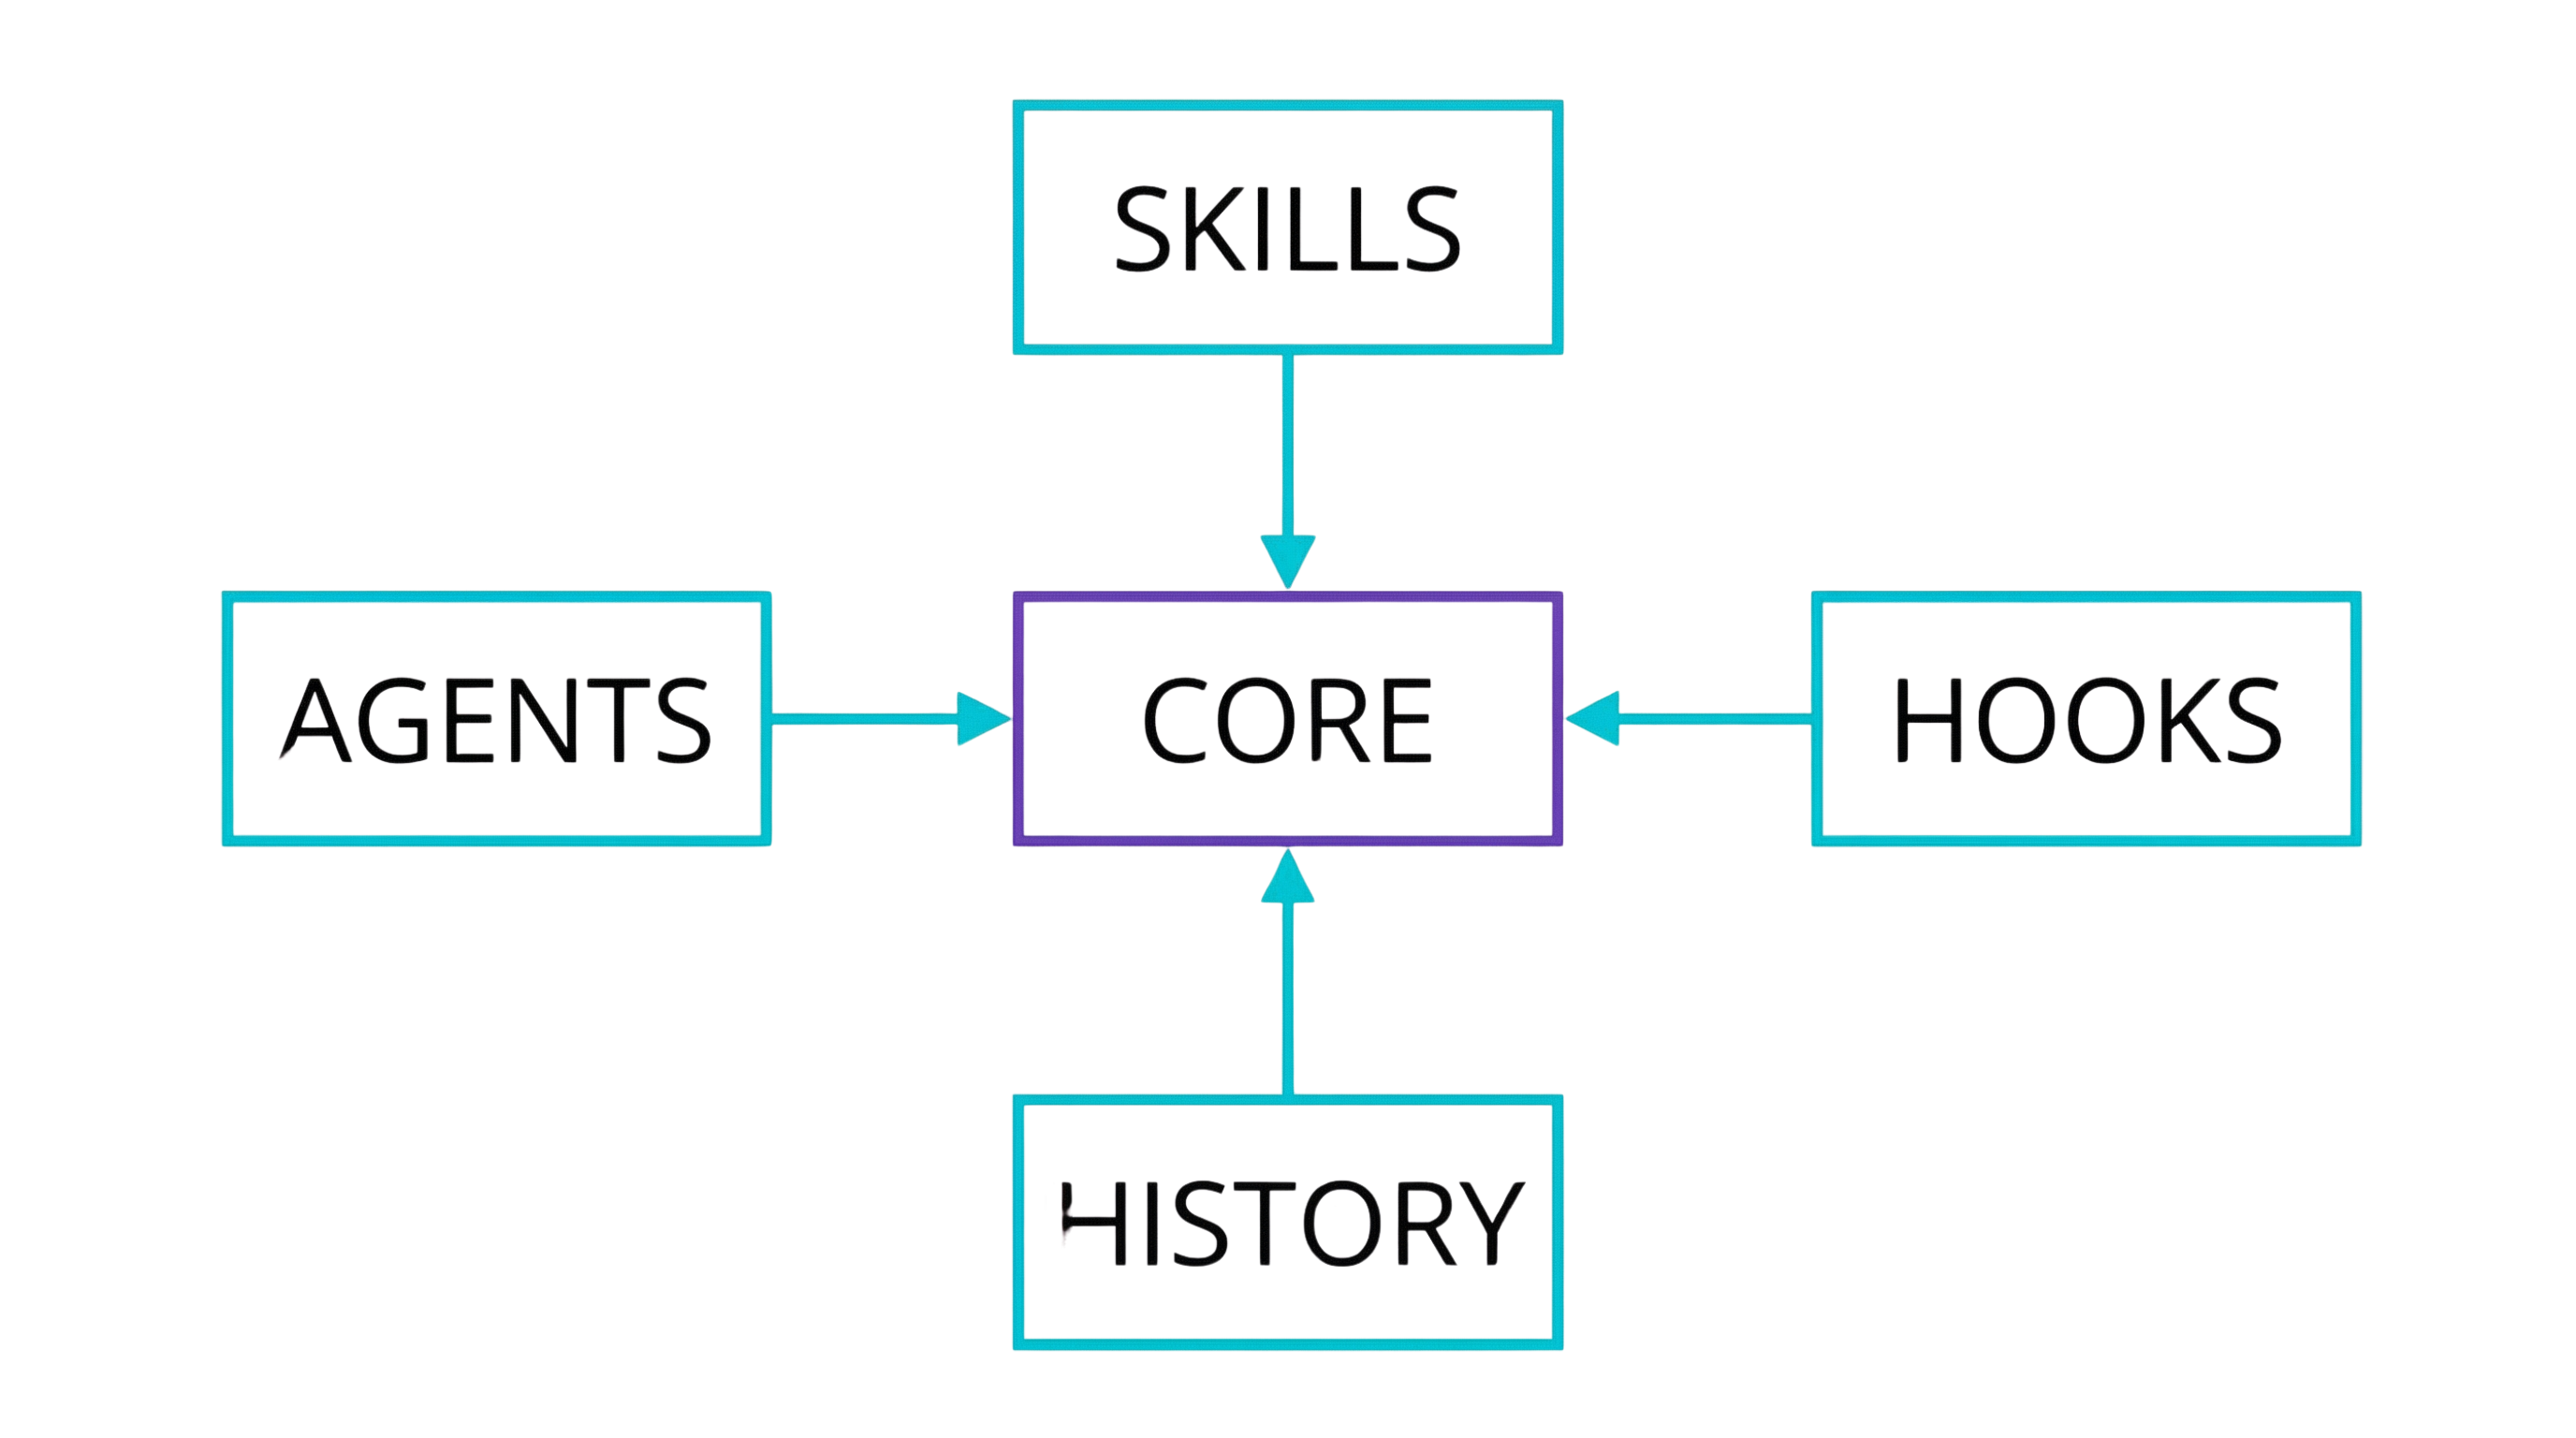
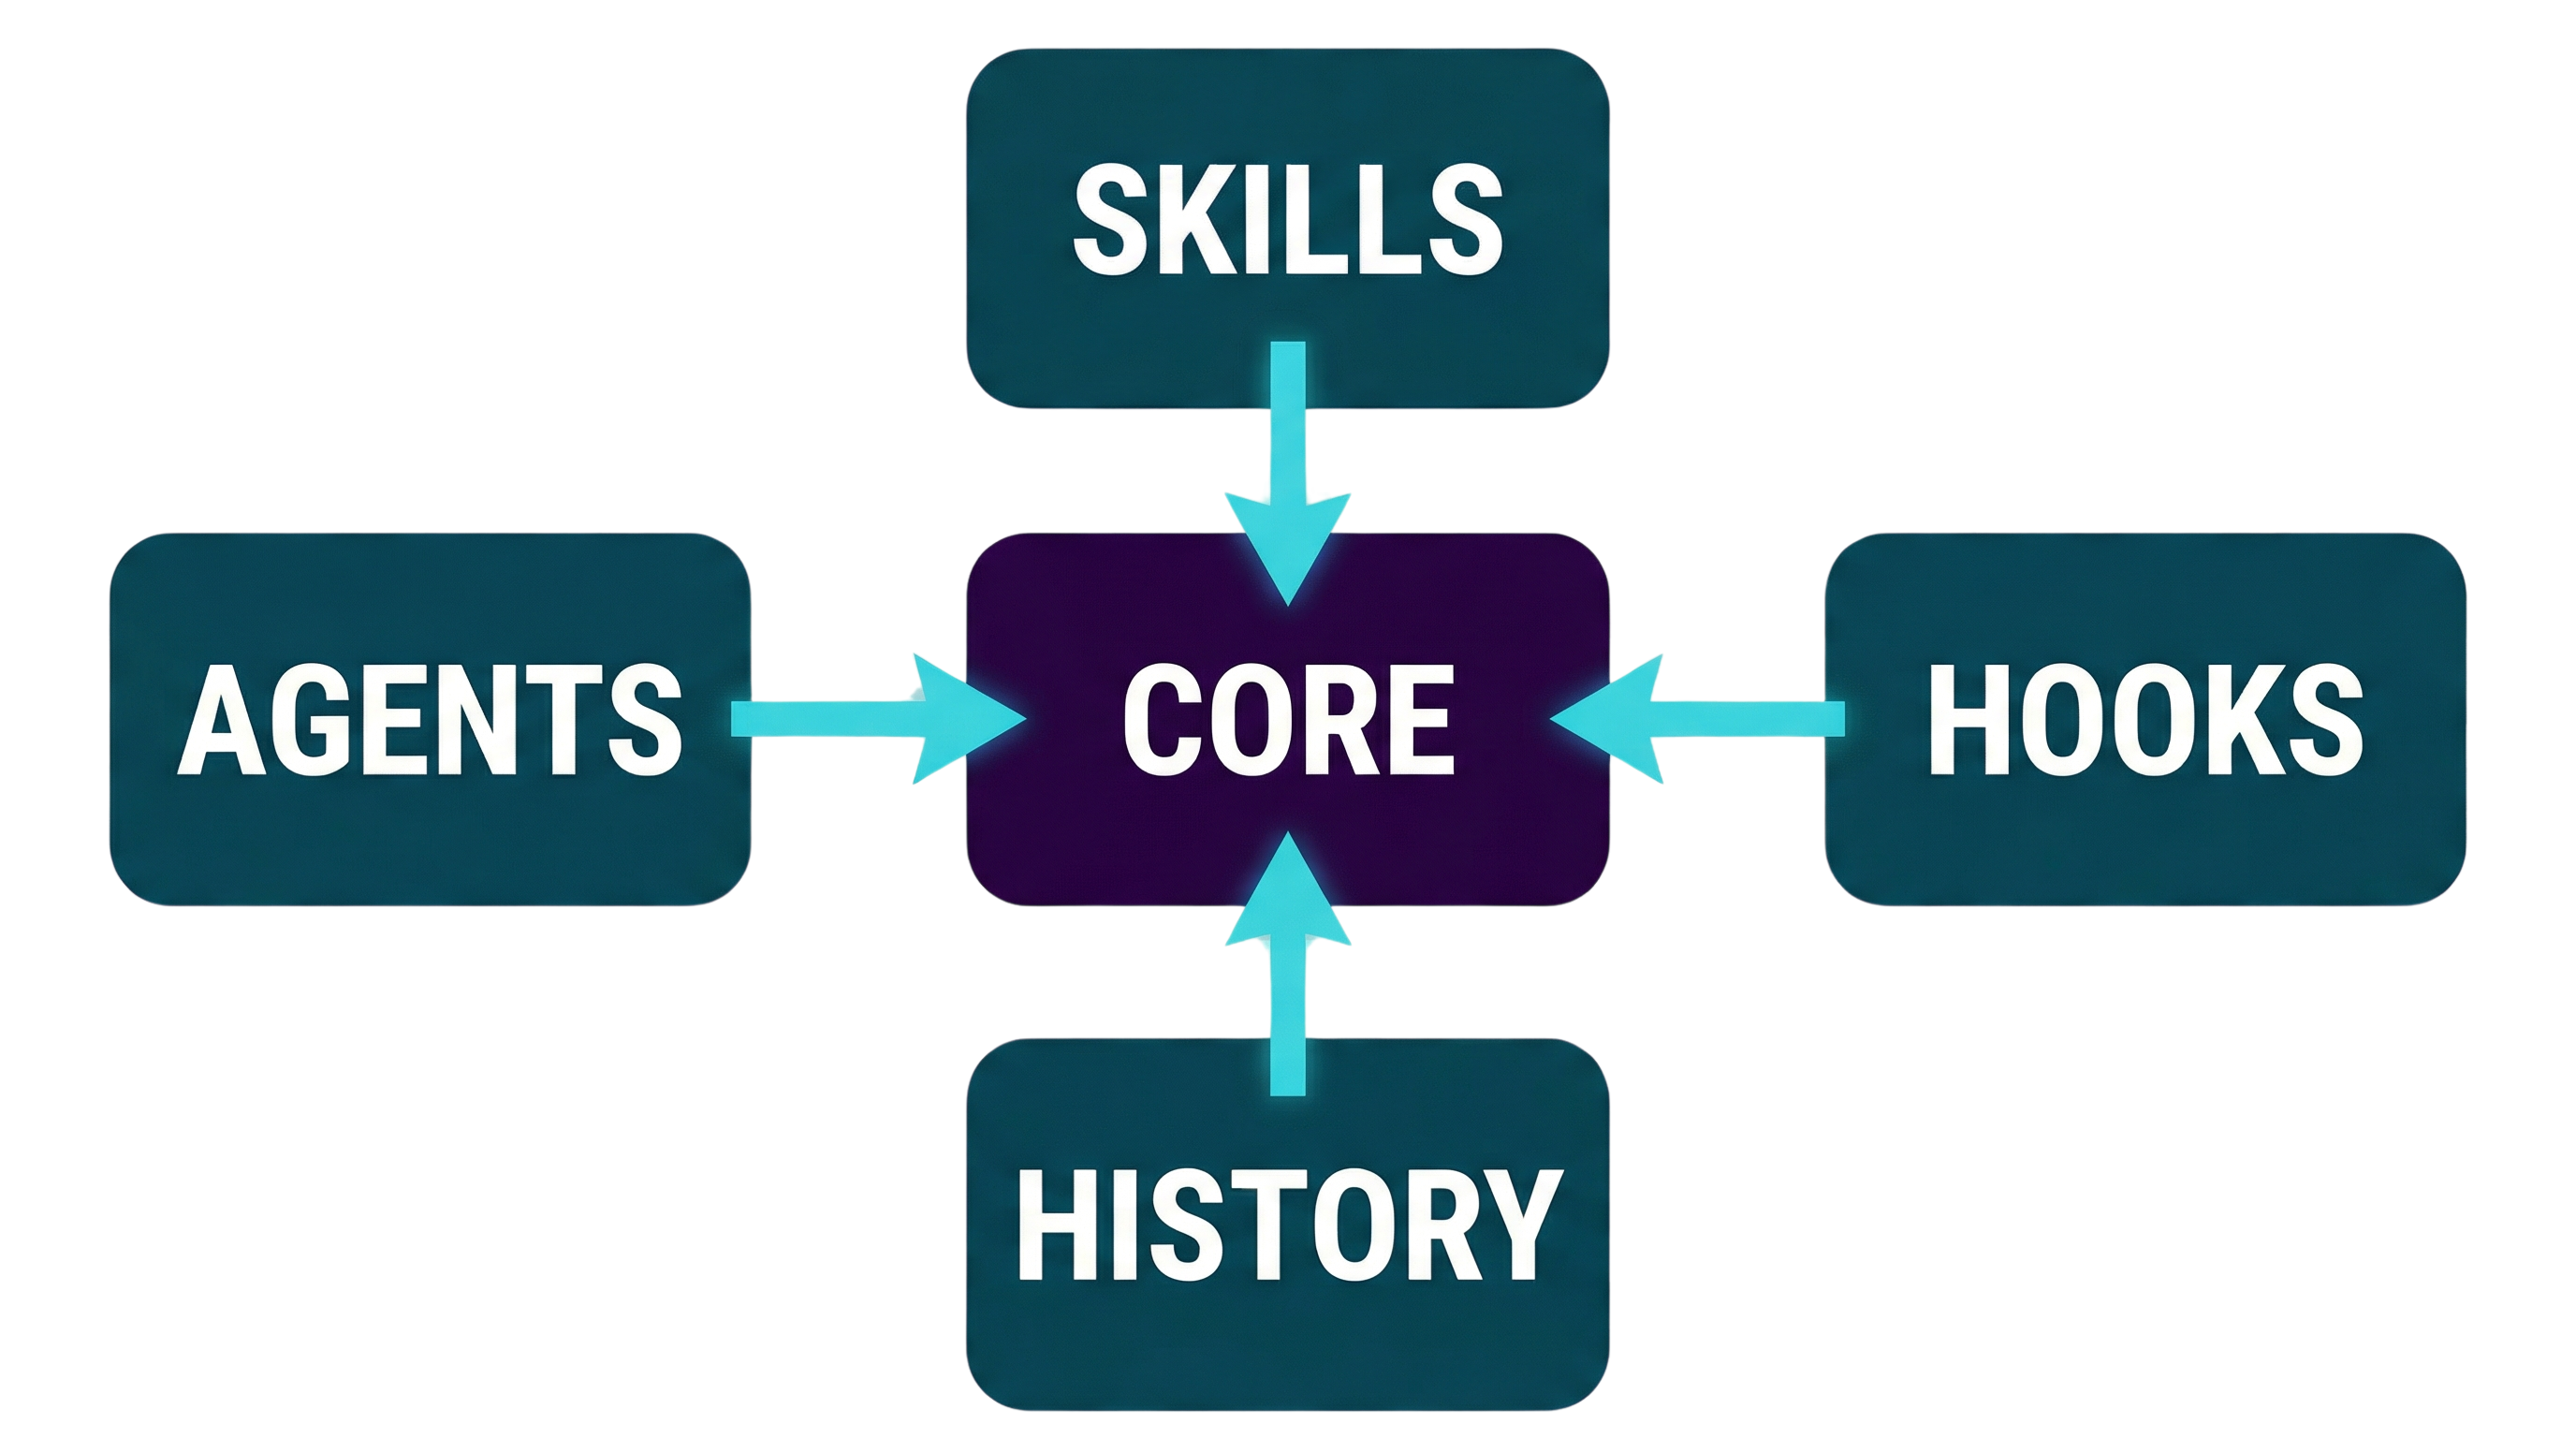
fix: Correct blog post links and improve architecture diagram
- Link to "The Real Internet of Things" (the actual vision behind PAI)
- Add "AI's Predictable Path: 7 Components" for visual walkthrough
- Regenerate PAI architecture diagram with dark filled boxes and white text
  (now visible on both light and dark GitHub themes)

🤖 Generated with [Claude Code](https://claude.com/claude-code)

diff --git a/README.md b/README.md
@@ -27,7 +27,7 @@
 
 [![PAI Overview Video](https://img.youtube.com/vi/iKwRWwabkEc/maxresdefault.jpg)](https://youtu.be/iKwRWwabkEc)
 
-**[Watch the full PAI walkthrough](https://youtu.be/iKwRWwabkEc)** | **[Read the blog post](https://danielmiessler.com/blog/personal-ais-will-mediate-everything)**
+**[Watch the full PAI walkthrough](https://youtu.be/iKwRWwabkEc)** | **[Read: The Real Internet of Things](https://danielmiessler.com/blog/real-internet-of-things)**
 
 <br/>
 
@@ -48,8 +48,8 @@ That's all good, but I think the purpose of technology is to serve humans—not 
 That's what PAI is. It's the foundation for building a Personal AI System that understands your larger goals and context, gets better over time, and that works for *you* because it's *yours*. Not some generic chatbot. Not some common assistant. A full platform for magnifying yourself and your impact on the world.
 
 **Related reading:**
-- [Personal AIs Will Mediate Everything](https://danielmiessler.com/blog/personal-ais-will-mediate-everything) — The vision behind PAI
-- [Personal AI Assistants Will Soon Be Our Interfaces to the World](https://danielmiessler.com/blog/personal-ai-assistants-will-soon-interfaces-world) — Why this matters
+- [The Real Internet of Things](https://danielmiessler.com/blog/real-internet-of-things) — The vision behind PAI (full book)
+- [AI's Predictable Path: 7 Components](https://danielmiessler.com/blog/ai-predictable-path-7-components-2024) — Visual walkthrough of where AI is heading
 
 <br/>
 
@@ -309,7 +309,7 @@ Kai and I work hard to address issues and PRs throughout the week — we try not
 | 🐛 **Issues** | [Report bugs or request features](https://github.com/danielmiessler/Personal_AI_Infrastructure/issues) |
 | 💬 **Discussions** | [Ask questions and share ideas](https://github.com/danielmiessler/Personal_AI_Infrastructure/discussions) |
 | 🎥 **Video** | [Watch the full PAI walkthrough](https://youtu.be/iKwRWwabkEc) |
-| 📝 **Blog** | [Personal AIs Will Mediate Everything](https://danielmiessler.com/blog/personal-ais-will-mediate-everything) |
+| 📝 **Blog** | [The Real Internet of Things](https://danielmiessler.com/blog/real-internet-of-things) |
 
 <br/>
 